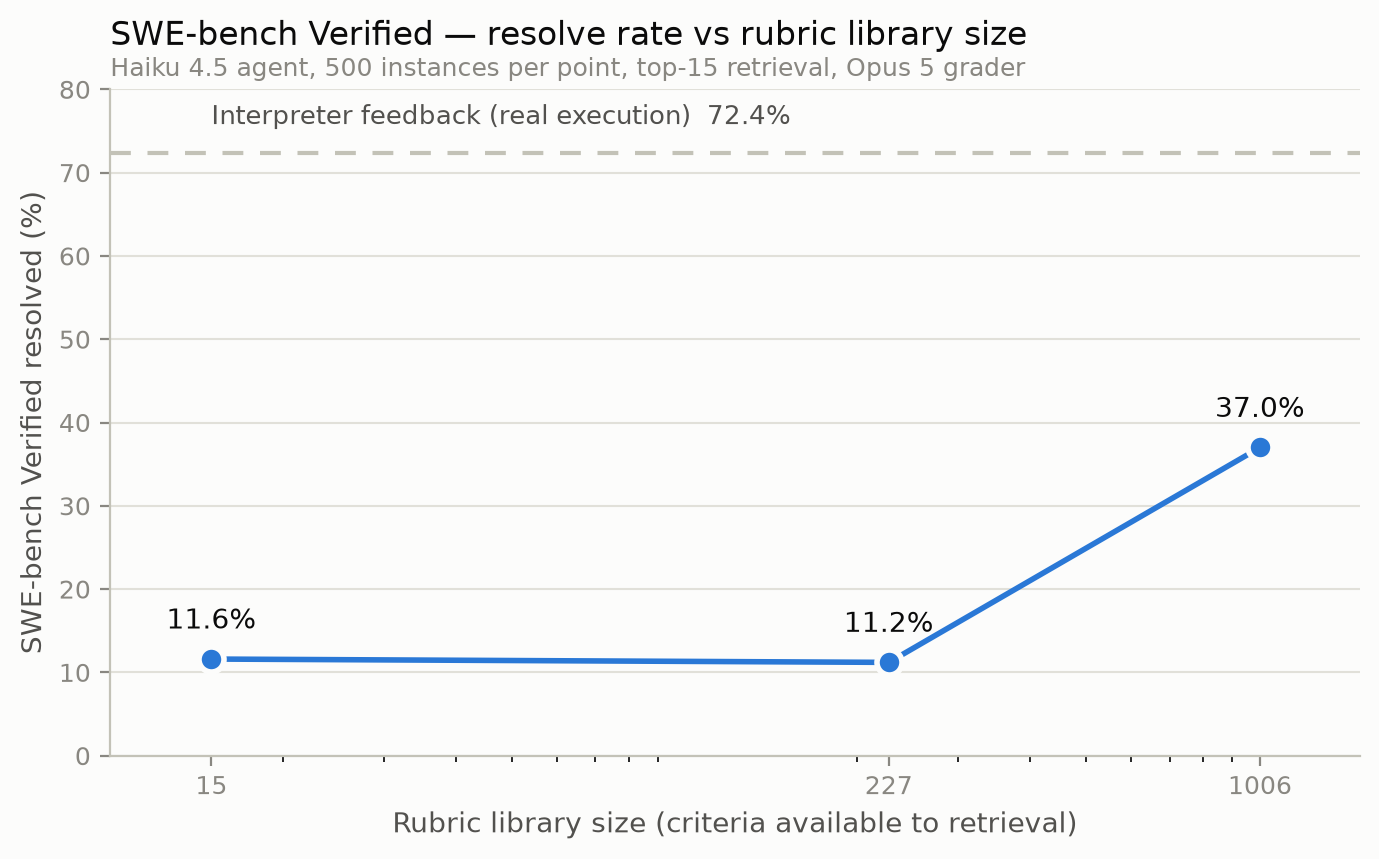
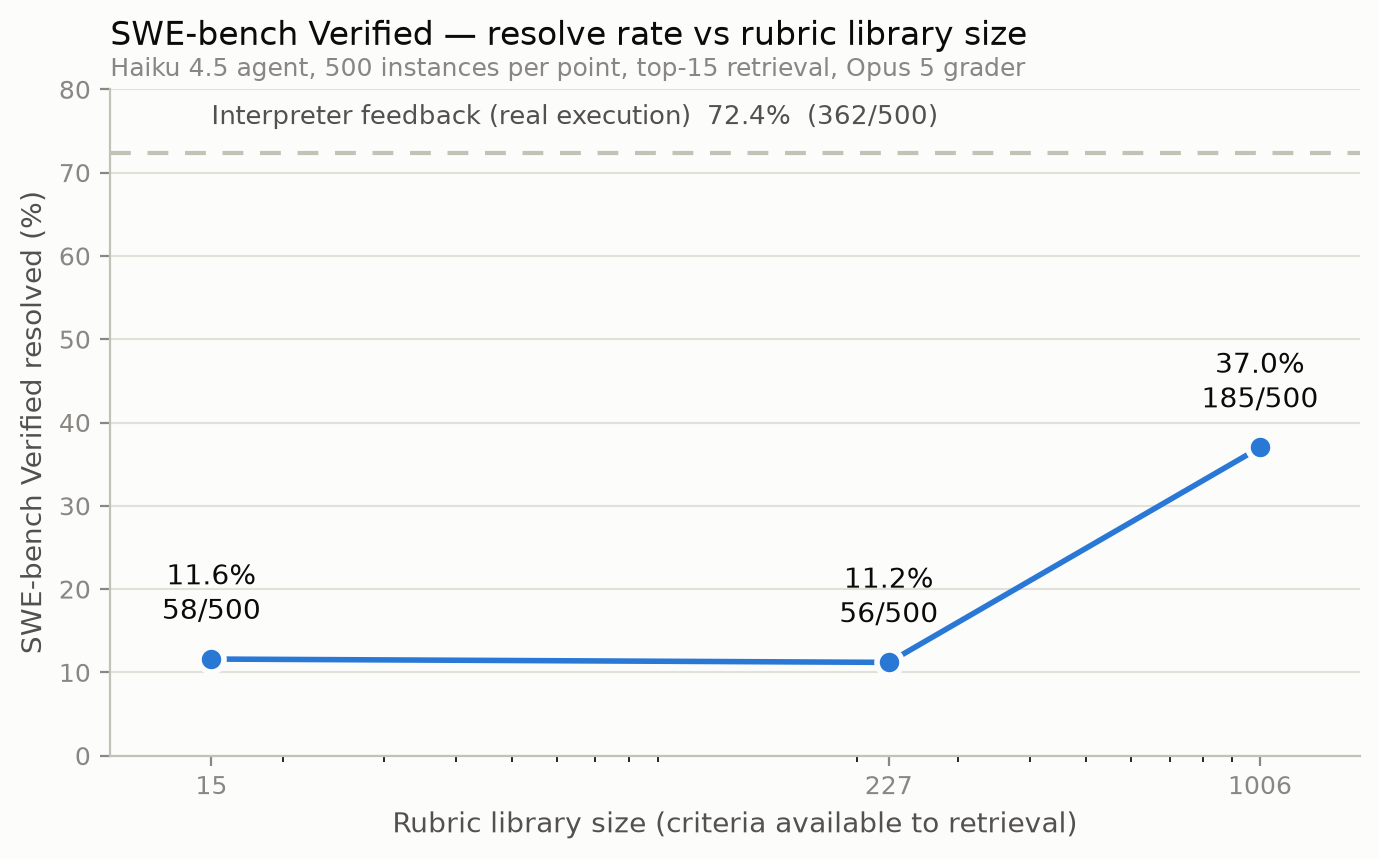
Plots take whole-number counts; labels show fraction (n/total) alongside percent

diff --git a/make_0831_plots.py b/make_0831_plots.py
@@ -18,12 +18,15 @@ from matplotlib.ticker import FixedLocator
 SURFACE, INK, INK2, MUTED = "#fcfcfb", "#0b0b0b", "#52514e", "#898781"
 GRID, AXIS, SERIES = "#e1e0d9", "#c3c2b7", "#2a78d6"
 
-# SWE-bench Verified: hand-edit the rates/baseline below, then rerun this script.
-# (cwm10/cwm100/baseline match the official grading reports in cwm-agent.)
+# Hand-edit the resolved counts below, then rerun this script. Every value is a
+# whole-number count out of `total`; the percent is computed, and labels show both.
+
+# SWE-bench Verified (cwm10/cwm100/baseline match the official grading reports in cwm-agent).
 SWE = {
     "sizes": [15, 227, 1006],
-    "rates": [100 * 58 / 500, 100 * 56 / 500, 100 * 185 / 500],
-    "baseline": 100 * 362 / 500,  # haiku45-final.json (interpreter feedback)
+    "counts": [58, 56, 185],  # resolved instances per rubric-library size
+    "baseline_count": 362,  # interpreter feedback (haiku45-final.json)
+    "total": 500,
     "ylabel": "SWE-bench Verified resolved (%)",
     "title": "SWE-bench Verified — resolve rate vs rubric library size",
     "subtitle": "Haiku 4.5 agent, 500 instances per point, top-15 retrieval, Opus 5 grader",
@@ -31,11 +34,12 @@ SWE = {
     "out": "assets/rubric-scaling-swe.png",
 }
 
-# MLE-bench Lite: hand-edit the rates/baseline below, then rerun this script.
+# MLE-bench Lite.
 MLE = {
     "sizes": [10, 100, 1000],
-    "rates": [9.1, 13.6, 18.2],
-    "baseline": 22.7,
+    "counts": [2, 3, 4],  # medals per rubric-library size
+    "baseline_count": 5,  # interpreter feedback
+    "total": 22,
     "ylabel": "MLE-bench Lite medal rate (%)",
     "title": "MLE-bench Lite — medal rate vs rubric library size",
     "subtitle": "Haiku 4.5 agent, 22 Lite competitions per point, Opus 5 grader",
@@ -45,7 +49,9 @@ MLE = {
 
 
 def draw(spec: dict):
-    sizes, rates, baseline = spec["sizes"], spec["rates"], spec["baseline"]
+    sizes, counts, total = spec["sizes"], spec["counts"], spec["total"]
+    rates = [100 * c / total for c in counts]
+    baseline = 100 * spec["baseline_count"] / total
 
     fig, ax = plt.subplots(figsize=(7, 4.4), dpi=200)
     fig.patch.set_facecolor(SURFACE)
@@ -54,7 +60,7 @@ def draw(spec: dict):
     # reference line: interpreter feedback (real execution)
     ax.axhline(baseline, color=AXIS, lw=1.5, ls=(0, (5, 4)), zorder=1)
     ax.annotate(
-        f"Interpreter feedback (real execution)  {baseline:.1f}%",
+        f"Interpreter feedback (real execution)  {baseline:.1f}%  ({spec['baseline_count']}/{total})",
         xy=(sizes[0], baseline), xytext=(0, 8), textcoords="offset points",
         color=INK2, fontsize=9.5, va="bottom",
     )
@@ -62,9 +68,10 @@ def draw(spec: dict):
     # the CWM series
     ax.plot(sizes, rates, color=SERIES, lw=2, marker="o", ms=9,
             mfc=SERIES, mec=SURFACE, mew=2, zorder=3)
-    for s, r in zip(sizes, rates):
-        ax.annotate(f"{r:.1f}%", xy=(s, r), xytext=(0, 11), textcoords="offset points",
-                    ha="center", color=INK, fontsize=10)
+    for s, r, c in zip(sizes, rates, counts):
+        ax.annotate(f"{r:.1f}%\n{c}/{total}", xy=(s, r), xytext=(0, 11),
+                    textcoords="offset points", ha="center", va="bottom",
+                    color=INK, fontsize=10, linespacing=1.3)
 
     ax.set_xscale("log")
     ax.xaxis.set_major_locator(FixedLocator(sizes))
